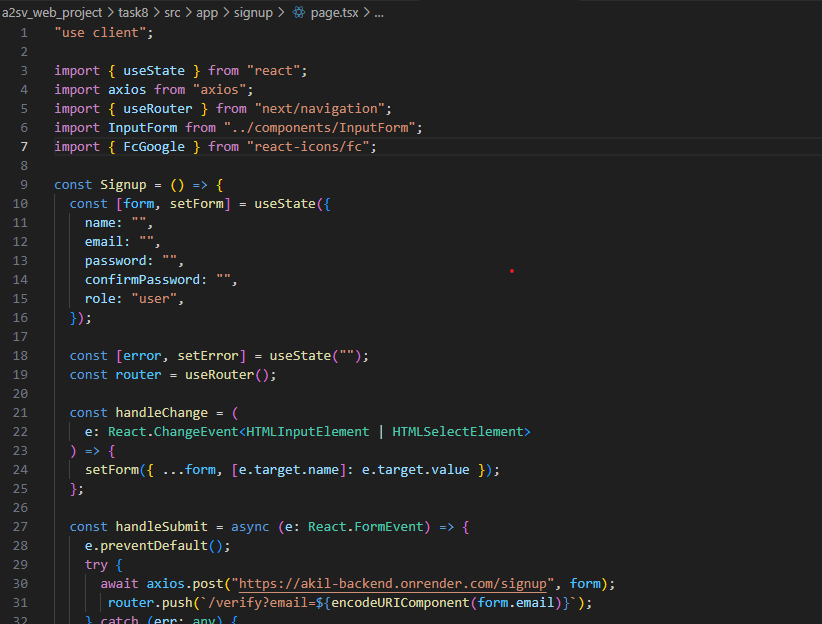
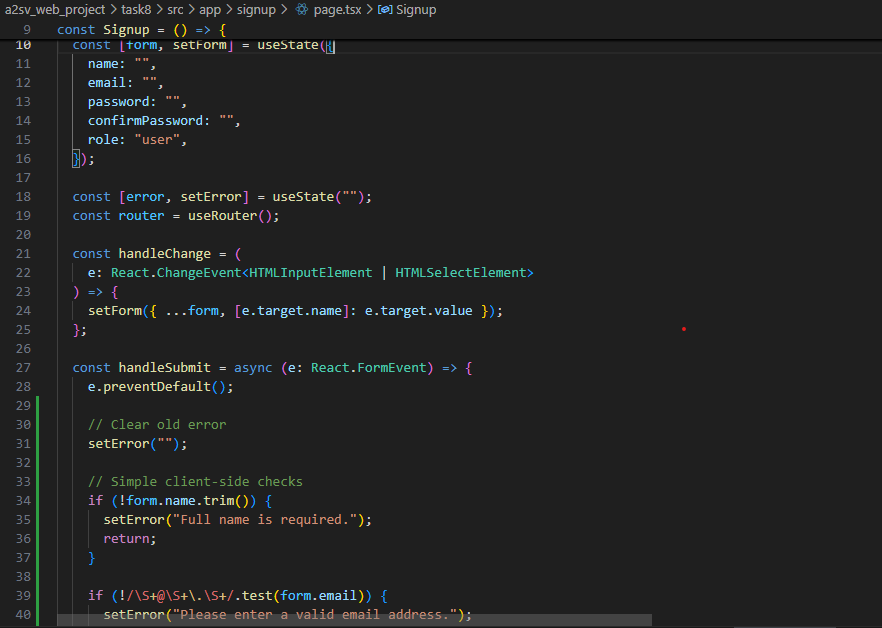
updated

Changed region(s): [[0.0, 0.0, 0.7603, 1.0], [0.2129, 0.4872, 0.5779, 0.5176], [0.6995, 0.9135, 0.7603, 0.9439]]

diff --git a/task8/src/app/signup/page.tsx b/task8/src/app/signup/page.tsx
@@ -26,9 +26,34 @@ const Signup = () => {
 
   const handleSubmit = async (e: React.FormEvent) => {
     e.preventDefault();
+
+    // Clear old error
+    setError("");
+
+    // Simple client-side checks
+    if (!form.name.trim()) {
+      setError("Full name is required.");
+      return;
+    }
+
+    if (!/\S+@\S+\.\S+/.test(form.email)) {
+      setError("Please enter a valid email address.");
+      return;
+    }
+
+    if (form.password.length < 6) {
+      setError("Password must be at least 6 characters.");
+      return;
+    }
+
+    if (form.password !== form.confirmPassword) {
+      setError("Passwords do not match.");
+      return;
+    }
+
     try {
       await axios.post("https://akil-backend.onrender.com/signup", form);
-       router.push(`/verify?email=${encodeURIComponent(form.email)}`);
+      router.push(`/verify?email=${encodeURIComponent(form.email)}`);
     } catch (err: any) {
       setError(err.response?.data?.message || "Signup failed");
     }

diff --git a/task8/src/app/signin/page.tsx b/task8/src/app/signin/page.tsx
@@ -3,7 +3,7 @@
 import { signIn } from "next-auth/react";
 import { useState } from "react";
 import { useRouter } from "next/navigation";
-import InputForm from "../components/InputForm"; // Make sure path is correct
+import InputForm from "../components/InputForm"; 
 
 const SigninForm = () => {
   const [form, setForm] = useState({ email: "", password: "" });

diff --git a/task8/src/app/api/auth/[...nextauth]/route.ts b/task8/src/app/api/auth/[...nextauth]/route.ts
@@ -3,5 +3,5 @@ import { authOptions } from "@/lib/authOptions";
 
 const handler = NextAuth(authOptions);
 
-// ✅ Let Next.js handle GET and POST — no need to manually call handler(req)
+
 export { handler as GET, handler as POST };

diff --git a/task8/src/lib/authOptions.ts b/task8/src/lib/authOptions.ts
@@ -57,7 +57,6 @@ export const authOptions: AuthOptions = {
       return session;
     },
   },
-
   pages: {
     signIn: "/signin",
   },
